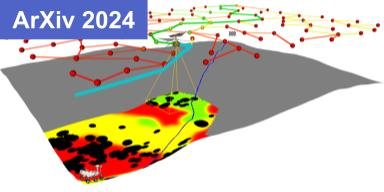
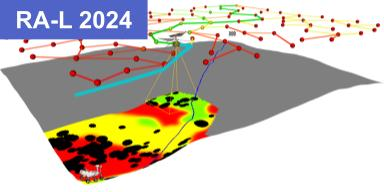
update news

Changed region(s): [[0.0312, 0.0, 0.375, 0.1875]]

diff --git a/publications/other.js b/publications/other.js
@@ -6,7 +6,8 @@ const pubOthers = [{
   "thumblink": "https://www.research-collection.ethz.ch/handle/20.500.11850/583169",
   "year": "2022",
   "pages": "",
-  "links": [{ "name": "ETH", "link": "https://www.research-collection.ethz.ch/handle/20.500.11850/583169" }]
+  "links": [{ "name": "ETH", "link": "https://www.research-collection.ethz.ch/handle/20.500.11850/583169" }],
+  "awards": ["ETH Medal for Outstanding PhD Thesis"]
 },
 {
   "authors": ["L. Schmid"],
@@ -16,5 +17,6 @@ const pubOthers = [{
   "thumblink": "https://www.research-collection.ethz.ch/handle/20.500.11850/506422",
   "year": "2019",
   "pages": "",
-  "links": [{ "name": "ETH", "link": "https://www.research-collection.ethz.ch/handle/20.500.11850/506422" }]
+  "links": [{ "name": "ETH", "link": "https://www.research-collection.ethz.ch/handle/20.500.11850/506422" }],
+  "awards": ["ETH Medal for Outstanding Master Thesis"]
 }]

diff --git a/publications/preprints.js b/publications/preprints.js
@@ -4,16 +4,6 @@ const preprintVenues = {
 
 const pubPreprints = [
   {
-    "authors": ["F. Rockenbauer", "J. Lim", "M. Müller", "R. Siegwart", "L. Schmid"],
-    "title": "Traversing Mars: Cooperative Informative Path Planning to Efficiently Navigate Unknown Scenes",
-    "venue": preprintVenues["Arxiv"],
-    "thumbimage": "MarsIPP.jpg",
-    "thumblink": "https://github.com/ethz-asl/scouting-ipp",
-    "year": "2024",
-    "pages": "",
-    "links": [{ "name": "ArXiv", "link": "https://arxiv.org/abs/2406.05313" }, {"name": "Code", "link": "https://github.com/ethz-asl/scouting-ipp"}]
-  },
-  {
     "authors": ["L. Schmid", "M. N. Cheema", "V. Reijgwart", "R. Siegwart", "F. Tombari", "C. Cadena"],
     "title": "SC-Explorer: Incremental 3D Scene Completion for Safe and Efficient Exploration Mapping and Planning",
     "venue": preprintVenues["Arxiv"],

diff --git a/publications/talks.js b/publications/talks.js
@@ -1,5 +1,21 @@
 const pubTalks = [
   {
+    "title": "Active Long-term Understanding of Dynamic Human-centric Scenes",
+    "venue": "Faculty Pathways Seminar",
+    "location": "Georgia Institute of Technology, Atlanta, GA, USA",
+    "month": 11,
+    "year": 2024,
+    "type": "Faculty Pathways Seminar"
+  },
+  {
+    "title": "Learning for Active Perception and Active Perception for Robot Learning",
+    "venue": "GRASP Laboratory",
+    "location": "University of Pennsylvania, Philadelphia, PA, USA",
+    "month": 11,
+    "year": 2024,
+    "type": "Invited Talk"
+  },
+  {
     "title": "Active Perception and Long-term Understanding of Dynamic Human-Centric Scenes",
     "venue": "Robot Learning Seminar",
     "location": "Mila - Quebec AI Institute, Montreal, Canada",

diff --git a/publications/journals.js b/publications/journals.js
@@ -6,6 +6,16 @@ const journalVenues = {
 
 const pubJournals = [
   {
+    "authors": ["F. Rockenbauer", "J. Lim", "M. Müller", "R. Siegwart", "L. Schmid"],
+    "title": "Traversing Mars: Cooperative Informative Path Planning to Efficiently Navigate Unknown Scenes",
+    "venue": journalVenues["RAL"],
+    "thumbimage": "MarsIPP.jpg",
+    "thumblink": "https://github.com/ethz-asl/scouting-ipp",
+    "year": "2024",
+    "pages": "(accepted)",
+    "links": [{ "name": "ArXiv", "link": "https://arxiv.org/abs/2406.05313" }, {"name": "Code", "link": "https://github.com/ethz-asl/scouting-ipp"}]
+  },
+  {
     "authors": ["N. Gorlo", "L. Schmid", "L. Carlone"],
     "title": "Long-Term Human Trajectory Prediction using 3D Dynamic Scene Graphs",
     "venue": journalVenues["RAL"],

diff --git a/publications/news.js b/publications/news.js
@@ -2,6 +2,13 @@
 // News thumb: WxH ~ 1x0.7
 const pubNews = [
   {
+    "title": "I presented my vision for Spatio-Temporal AI at the Georgia Tech Faculty Pathways Seminar!",
+    "date": "11/2024",
+    "image": "gatech_fps.jpg",
+    "thumb": "gatech_fps.jpg",
+    "caption": "I presented my vision for Spatio-Temporal AI at the Georgia Tech Faculty Pathways Seminar!"
+  },
+  {
     "title": "I presented our work at the Mila Robot Learning Seminar! [<a href='https://www.youtube.com/watch?v=1DYJTbkD29I'/>Recording</a>]",
     "date": "10/2024",
     "image": "mila_t.jpg",
